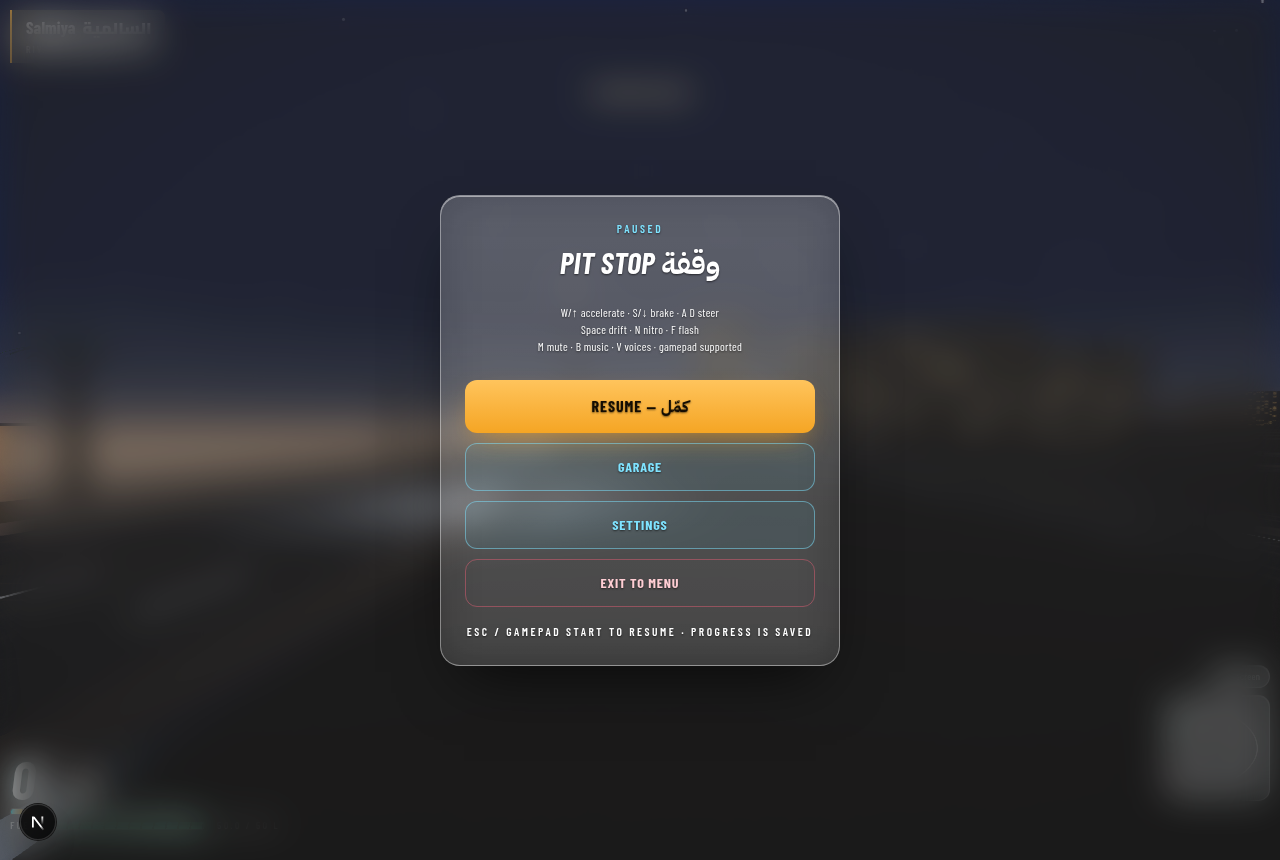
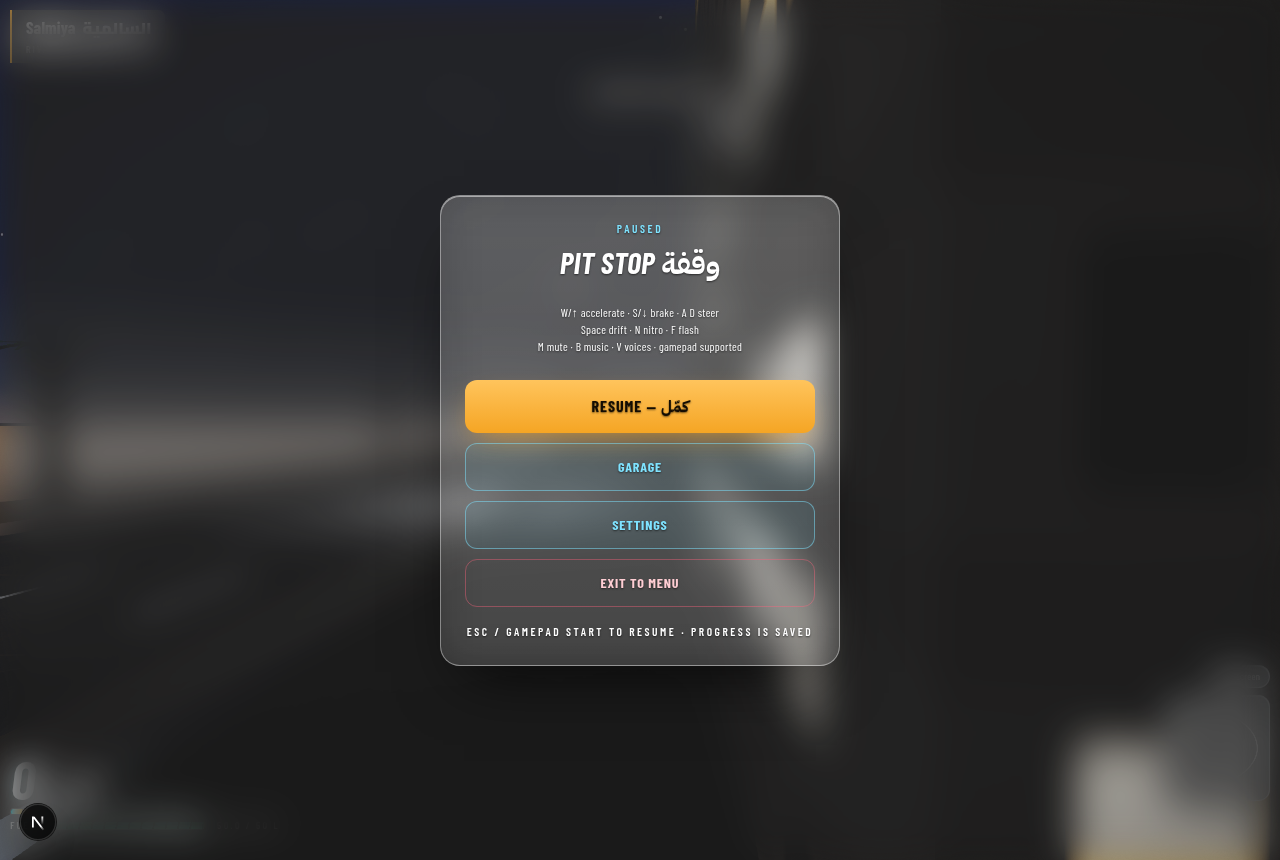
Finish taking the blue out: the pause glass was the last of it
The four screens measured last time came back neutral, but two things
had never been measured at all — the hub lobby, and the glass panel that
the pause screen is made of. The hub was fine. The panel was carrying a
cast of 10, which is the same tint this change exists to remove,
arriving through the glass instead of through the paint.

The interesting part is where the control turned out to be. The obvious
knob is the panel's own backdrop-filter, so that went to saturate(0) —
fully neutral glass — and the delivered panel moved from a cast of 8
to 8. Nothing at all. A backdrop-filter inside an element that already
has one does not compose the way it reads: what the panel shows is the
SCRIM behind it seen through a white film, and the scrim's saturation
governs both. At 0.12 the panel reads 3 and the whole pause frame reads
3, down from 13.

That is now written on the declaration, because the next person to turn
that knob deserves to know it does nothing.

Every menu, measured blue-minus-red: main menu 3, garage 1, settings 2,
how to play 2, hub 2, pause 3, glass panel 3.

Two instrument fixes along the way, both of which had been quietly
lying. The panel sample strip straddled the panel's own border and the
scrim outside it, so a reading about the panel had the scrim mixed into
it. And the summary table had been spliced inside the branch that only
runs when the pause menu FAILS to open, so the last three runs printed
[…]

diff --git a/src/app/globals.css b/src/app/globals.css
@@ -307,9 +307,11 @@ body {
      for a reason no amount of neutral paint on the panel could fix.
      Draining the saturation on the way through is both what frosted
      glass actually does to what it scatters and the only way this screen
-     can be see-through and neutral at the same time. */
-  -webkit-backdrop-filter: blur(18px) saturate(0.45);
-  backdrop-filter: blur(18px) saturate(0.45);
+     can be see-through and neutral at the same time.
+     This one number governs the WHOLE pause screen, panel included —
+     see the note on .grn-dialog-glass. */
+  -webkit-backdrop-filter: blur(18px) saturate(0.12);
+  backdrop-filter: blur(18px) saturate(0.12);
 }
 
 /* The panel itself: a second, brighter pane sitting on the scrim. Its
@@ -326,8 +328,20 @@ body {
   box-shadow:
     0 1px 0 rgba(255, 255, 255, 0.5) inset,
     0 30px 60px -24px rgba(0, 0, 0, 0.75);
-  -webkit-backdrop-filter: blur(22px) saturate(0.5);
-  backdrop-filter: blur(22px) saturate(0.5);
+  /* This element's own saturate() does NOT govern its colour, and that
+     is worth knowing before anyone turns this knob expecting something
+     to happen.
+     A backdrop-filter inside another element that already has one does
+     not compose the way it reads: taking this to saturate(0) — fully
+     neutral glass — moved the delivered panel from a cast of 8 to 8.
+     Nothing. What the panel actually shows is the SCRIM behind it, seen
+     through this white film, so the scrim's saturation is the control
+     for both. Dropping the scrim to 0.12 took the panel to 3 and the
+     whole pause frame with it.
+     The blur here is real and does work. The saturate is kept only so
+     the declaration says what the panel is meant to be. */
+  -webkit-backdrop-filter: blur(22px) saturate(0);
+  backdrop-filter: blur(22px) saturate(0);
 }
 /* Glass has no opinion about what is behind it, so the type on it needs
    its own shadow to stay readable when a pair of headlights sweeps
